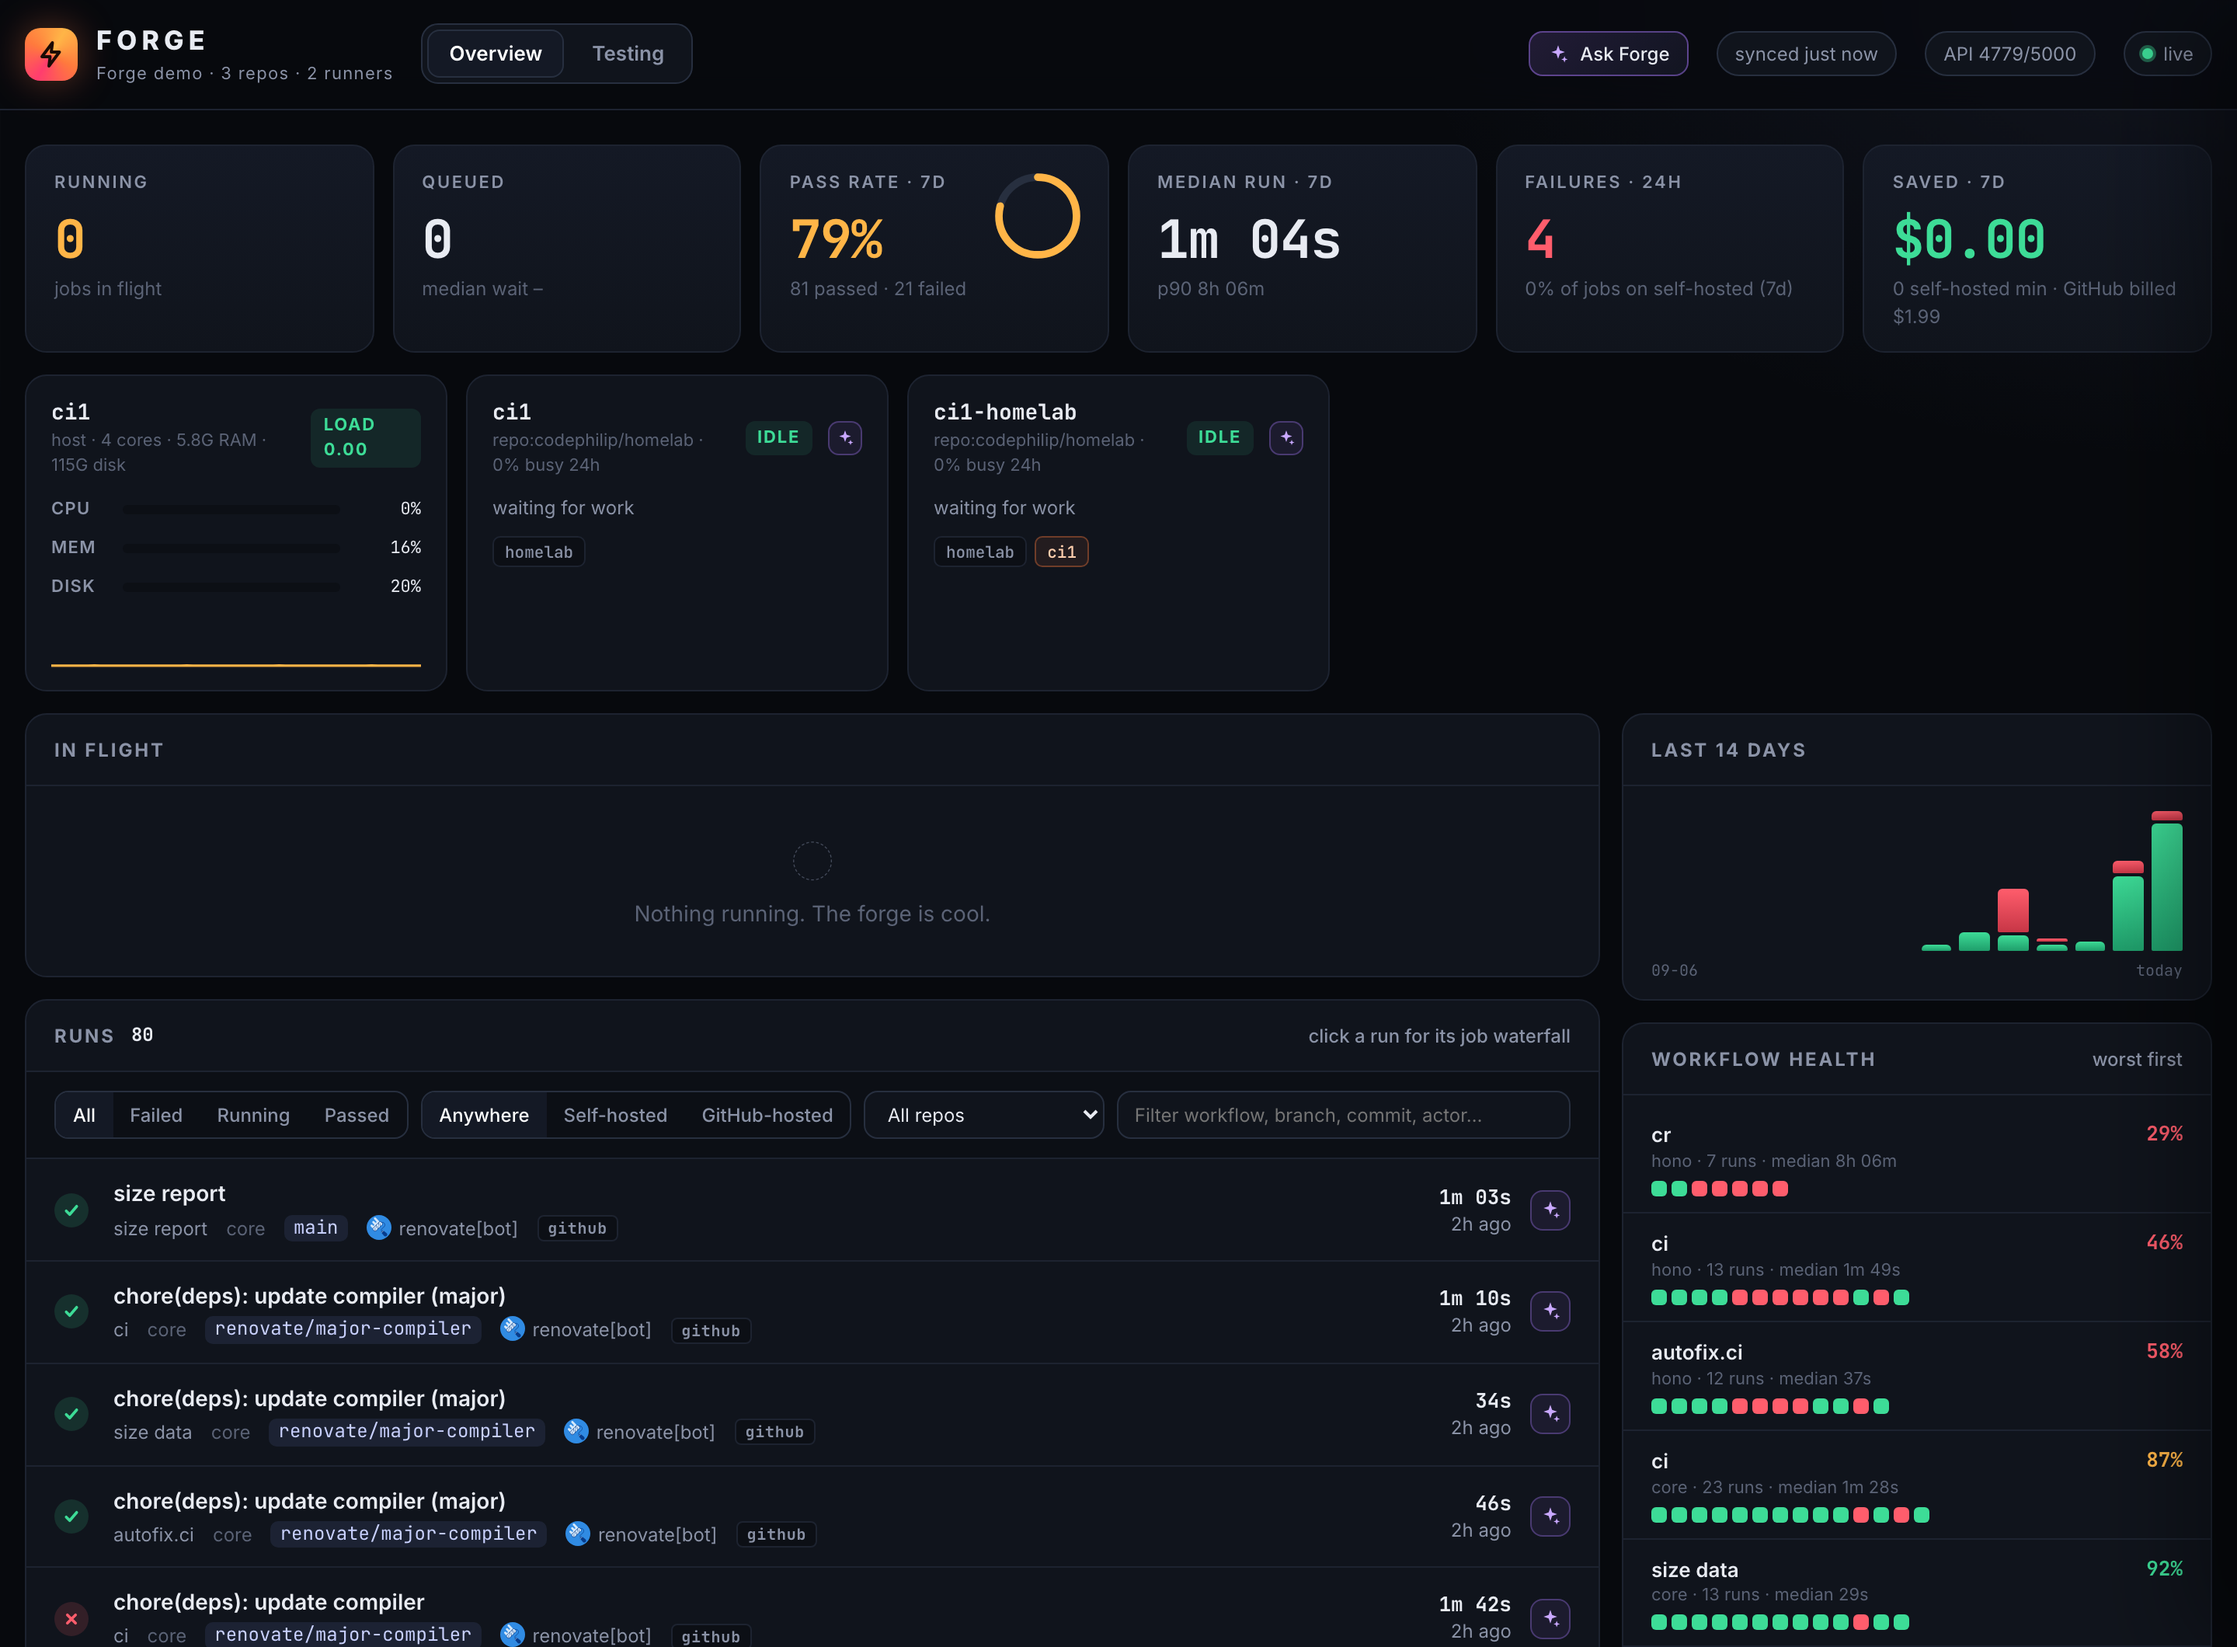
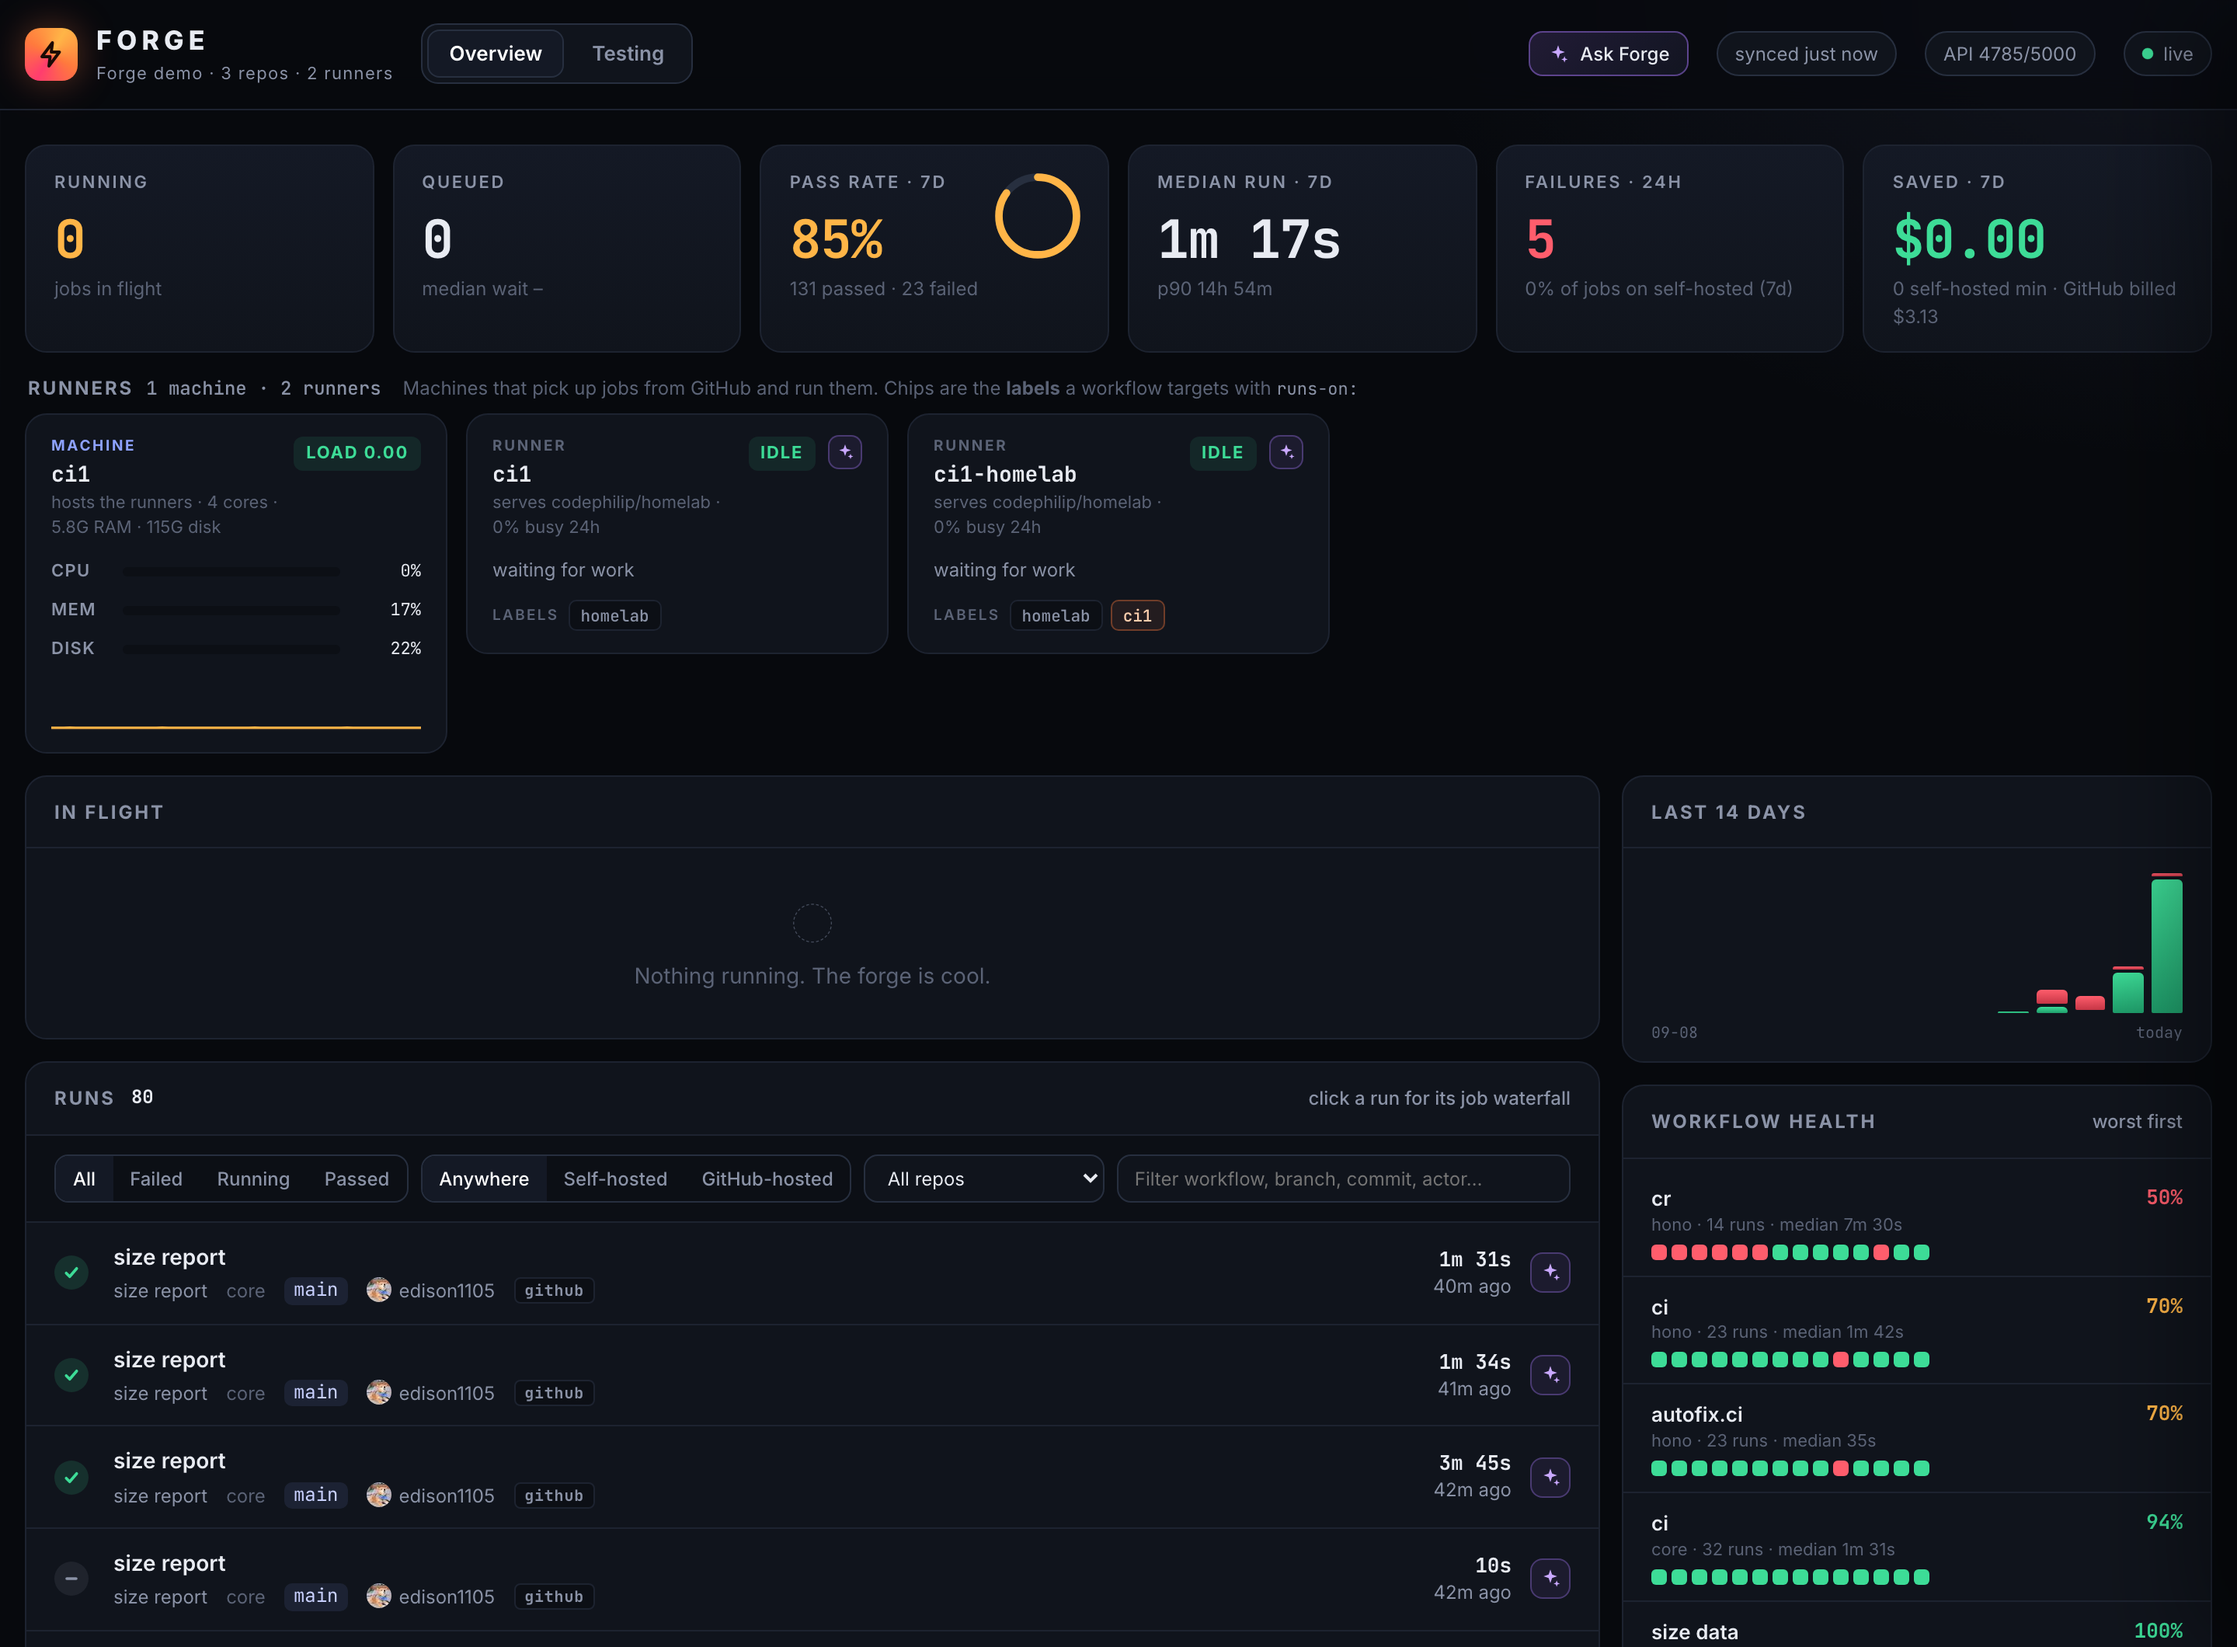
release: 0.1.1
The runner strip explains itself (section header, Machine/Runner tags,
plain-words scope, labelled chips with a full-label tooltip). Fixes the
clipped AI button on runner cards, the FLAKY badge overflow on phones, and a
sideways scroll on narrow screens. README overview screenshot refreshed.

diff --git a/forge/index.html b/forge/index.html
@@ -90,7 +90,17 @@ header{position:sticky;top:0;z-index:20;backdrop-filter:blur(14px) saturate(140%
 .runner.offline{border-color:rgba(255,93,108,.35)}
 .runner .job{margin-top:10px;font-size:12px;color:var(--muted);white-space:nowrap;overflow:hidden;text-overflow:ellipsis}
 .runner .job b{color:var(--text);font-weight:600}
-.chips{display:flex;flex-wrap:wrap;gap:5px;margin-top:10px}
+.chips{display:flex;flex-wrap:wrap;align-items:center;gap:5px;margin-top:10px}
+/* One-line explainer above the runner strip. */
+.sechead{display:flex;align-items:baseline;gap:14px;margin:4px 2px 8px;min-width:0}
+.sechead h2{margin:0;font-size:12px;letter-spacing:.12em;text-transform:uppercase;color:var(--muted);font-weight:700;white-space:nowrap}
+.sechead .count{font:500 12px var(--mono);color:var(--muted);letter-spacing:0;text-transform:none;margin-left:8px}
+.sechead .hint{font-size:12px;color:var(--dim);min-width:0;flex:1;white-space:nowrap;overflow:hidden;text-overflow:ellipsis}
+.sechead .hint code{font:11px var(--mono);color:var(--muted)}
+/* MACHINE / RUNNER tag and the "labels" caption on each card. */
+.runner .kind{font:700 9.5px var(--sans);letter-spacing:.14em;text-transform:uppercase;color:var(--dim);margin-bottom:4px}
+.runner.host .kind{color:#8ea2ff}
+.chips .k{font:600 9.5px var(--sans);letter-spacing:.12em;text-transform:uppercase;color:var(--dim);margin-right:1px}
 .chip{font:500 10.5px var(--mono);padding:2px 7px;border-radius:5px;background:var(--bg2);border:1px solid var(--line);color:var(--muted)}
 .chip.hl{color:#ffcfae;border-color:rgba(255,122,61,.35);background:rgba(255,122,61,.08)}
 .host .meters{display:grid;gap:9px;margin-top:12px}
@@ -277,9 +287,10 @@ input[type=search]{flex:1;min-width:140px}
 .sdetail .acts{display:flex;gap:8px;flex-wrap:wrap;margin-top:8px}
 .sdetail a.btn{text-decoration:none}
 
-@media (max-width:1100px){.grid{grid-template-columns:1fr}.hero{grid-template-columns:repeat(3,minmax(0,1fr))}
+@media (max-width:1100px){.grid{grid-template-columns:minmax(0,1fr)}.hero{grid-template-columns:repeat(3,minmax(0,1fr))}
   .suite{grid-template-columns:26px minmax(0,1fr) 120px 60px 30px}.suite .beadcol{display:none}}
-@media (max-width:640px){.suite{grid-template-columns:22px minmax(0,1fr) 54px 30px}.suite .cntcol{display:none}.sdetail{padding-left:18px}
+@media (max-width:640px){.sechead .hint{display:none}
+  .suite{grid-template-columns:22px minmax(0,1fr) 54px 30px}.suite .cntcol{display:none}.sdetail{padding-left:18px}
   .bar{gap:10px}.tabs a{padding:6px 10px}
   .hero{grid-template-columns:repeat(2,minmax(0,1fr))}.stat .v{font-size:26px}.ring{display:none}
   .detail{padding-left:18px}.wrow{grid-template-columns:110px 1fr 56px}.flight{grid-template-columns:1fr}}
@@ -314,6 +325,10 @@ input[type=search]{flex:1;min-width:140px}
     <div class="stat" id="st-save" title="What the jobs that ran on self-hosted runners would have cost on GitHub-hosted runners"><div class="k">Saved · 7d</div><div class="v pass mono">–</div><div class="s">–</div></div>
   </section>
 
+  <div class="sechead" id="fleet-head" title="Machines that pick up jobs from GitHub and run them. Chips are the labels a workflow targets with runs-on:">
+    <h2>Runners<span class="count" id="fleet-count"></span></h2>
+    <span class="hint">Machines that pick up jobs from GitHub and run them. Chips are the <b>labels</b> a workflow targets with <code>runs-on:</code></span>
+  </div>
   <section class="fleet" id="fleet"></section>
 
   <div class="grid">
@@ -514,12 +529,17 @@ function sparkline(vals, color){
     <defs><linearGradient id="${id}" x1="0" x2="0" y1="0" y2="1"><stop offset="0" stop-color="${color}" stop-opacity=".35"/><stop offset="1" stop-color="${color}" stop-opacity="0"/></linearGradient></defs>
     <path d="${d} L${w} ${h} L0 ${h}Z" fill="url(#${id})"/><path d="${d}" fill="none" stroke="${color}" stroke-width="1.5" vector-effect="non-scaling-stroke"/></svg>`;
 }
+// "repo:owner/name" -> "serves owner/name"; "org:acme" -> "serves the acme org"
+function scopeText(scope){
+  const [kind, target] = String(scope).split(/:(.*)/s);
+  return kind === "org" ? `serves the ${esc(target)} org` : `serves ${esc(target || scope)}`;
+}
 function renderFleet(){
   const h = S.host || {};
   const gb = b => b ? (b/1073741824).toFixed(b > 20*1073741824 ? 0 : 1) + "G" : "";
   const meter = (l, v, extra="") => `<div class="meter"><span class="l">${l}</span><span class="t"><span class="f" style="width:${Math.min(100,v||0)}%;background-position:${-(Math.min(100,v||0))*2}px 0"></span></span><span class="n">${v==null?"–":Math.round(v)+"%"}</span></div>`;
   let html = h.configured === false ? "" : `<div class="runner host ${h.ok ? "" : "offline"}">
-    <div class="top"><div><div class="nm">${esc(h.label || S.config.host_label)}</div><div class="sc">host · ${h.cores ? h.cores + " cores · " + gb(h.mem_total) + " RAM · " + gb(h.disk_total) + " disk" : "no metrics"}</div></div>
+    <div class="top"><div><div class="kind">Machine</div><div class="nm">${esc(h.label || S.config.host_label)}</div><div class="sc">hosts the runners · ${h.cores ? h.cores + " cores · " + gb(h.mem_total) + " RAM · " + gb(h.disk_total) + " disk" : "no metrics"}</div></div>
     <span class="state ${h.ok ? "idle" : "offline"}">${h.ok ? "load " + (h.load ?? 0).toFixed(2) : "no data"}</span></div>
     <div class="meters">${meter("CPU", h.cpu)}${meter("MEM", h.mem)}${meter("DISK", h.disk)}</div>
     ${sparkline(h.cpu_series, "#ffb547")}</div>`;
@@ -528,12 +548,17 @@ function renderFleet(){
     const st = r.status === "offline" ? "offline" : r.busy ? "busy" : "idle";
     const util = Math.round(100 * (busy[r.name] || 0) / 86400);
     html += `<div class="runner ${st}">
-      <div class="top"><div><div class="nm">${esc(r.name)}</div><div class="sc">${esc(r.scope)} · ${util}% busy 24h</div></div>
+      <div class="top"><div><div class="kind">Runner</div><div class="nm">${esc(r.name)}</div><div class="sc">${scopeText(r.scope)} · ${util}% busy 24h</div></div>
       <span class="state ${st}">${st}</span>${aiBtn("runner", r.name, "runner " + r.name, true)}</div>
       <div class="job">${r.current ? `<a href="${esc(r.current.url)}" target="_blank"><b>${esc(r.current.name)}</b> · ${esc(short(r.current.repo))} · <span class="mono" data-since="${esc(r.current.started_at)}"></span></a>`
         : st === "offline" ? `offline ${r.offline_since ? "for <span class=mono data-since-epoch=" + r.offline_since + "></span>" : ""}` : "waiting for work"}</div>
-      <div class="chips">${r.labels.filter(l => !["self-hosted","Linux","X64"].includes(l)).map(l => `<span class="chip ${l===S.config.host_label?"hl":""}">${esc(l)}</span>`).join("")}</div></div>`;
+      <div class="chips" title="runs-on labels: ${esc(r.labels.join(", "))}"><span class="k">labels</span>${
+        r.labels.filter(l => !["self-hosted","Linux","X64"].includes(l)).map(l =>
+          `<span class="chip ${l===S.config.host_label?"hl":""}" ${l===S.config.host_label?'title="Matches this dashboard\'s host label"':""}>${esc(l)}</span>`).join("")
+      }</div></div>`;
   }
+  const machines = h.configured === false ? 0 : 1;
+  $("#fleet-count").textContent = (machines ? "1 machine · " : "") + S.runners.length + (S.runners.length === 1 ? " runner" : " runners");
   if (!S.runners.length) html += `<div class="runner"><div class="nm">No self-hosted runners</div><div class="job" style="white-space:normal">Jobs run on GitHub-hosted runners. To list your own runners, the token needs admin access to the repo or org (see docs/configuration.md).</div></div>`;
   $("#fleet").innerHTML = html;
 }

diff --git a/forge/server.py b/forge/server.py
@@ -40,7 +40,7 @@ log = logging.getLogger("forge")
 
 # Bumped by hand at release time; see docs/releasing.md. The container image is
 # tagged with the same number by CI when the matching git tag is pushed.
-VERSION = "0.1.0"
+VERSION = "0.1.1"
 
 
 def _csv(name, default=""):

diff --git a/CHANGELOG.md b/CHANGELOG.md
@@ -10,6 +10,25 @@ migration step.
 
 ## [Unreleased]
 
+## [0.1.1] - 2026-09-21
+
+### Changed
+
+- The runner strip explains itself: a one-line **Runners** header with the
+  machine and runner count and what the cards are, a **Machine** / **Runner**
+  tag on each card so the host can't be mistaken for a runner, the scope in
+  plain words (`serves owner/repo`, `serves the acme org` instead of
+  `repo:owner/repo`, `org:acme`), and a **labels** caption on the chips with a
+  tooltip listing every label, including the hidden `self-hosted`, `Linux` and
+  `X64`.
+
+### Fixed
+
+- A runner card's AI button could be pushed past the card's edge and clipped
+  when a long scope name made the title row too wide.
+- On phones the FLAKY badge overflowed its row, and the runs column was a few
+  pixels wider than the screen, so the page scrolled sideways.
+
 ## [0.1.0] - 2026-09-20
 
 First public release.
@@ -47,5 +66,6 @@ First public release.
 - Test counts come from log summaries; unrecognised runners still show pass/fail
   without counts.
 
-[Unreleased]: https://github.com/codephilip/forge-ci/compare/v0.1.0...HEAD
+[Unreleased]: https://github.com/codephilip/forge-ci/compare/v0.1.1...HEAD
+[0.1.1]: https://github.com/codephilip/forge-ci/compare/v0.1.0...v0.1.1
 [0.1.0]: https://github.com/codephilip/forge-ci/releases/tag/v0.1.0

diff --git a/README.md b/README.md
@@ -216,10 +216,10 @@ Edit `~/.forge-ci/forge.env` and re-run the installer (or `docker restart forge-
 docker run -d --name forge-ci -p 8080:8080 \
   -e GITHUB_TOKEN=ghp_… -e FORGE_REPOS=owner/repo \
   -v forge-ci-data:/data --restart unless-stopped \
-  ghcr.io/codephilip/forge-ci:0.1.0
+  ghcr.io/codephilip/forge-ci:0.1.1
 ```
 
-Image tags: `0.1.0` (fixed), `0.1` (patch updates), `latest` (tip of `main`).
+Image tags: `0.1.1` (fixed), `0.1` (patch updates), `latest` (tip of `main`).
 Changes are listed in [CHANGELOG.md](CHANGELOG.md); how releases are cut is in
 [docs/releasing.md](docs/releasing.md).
 
